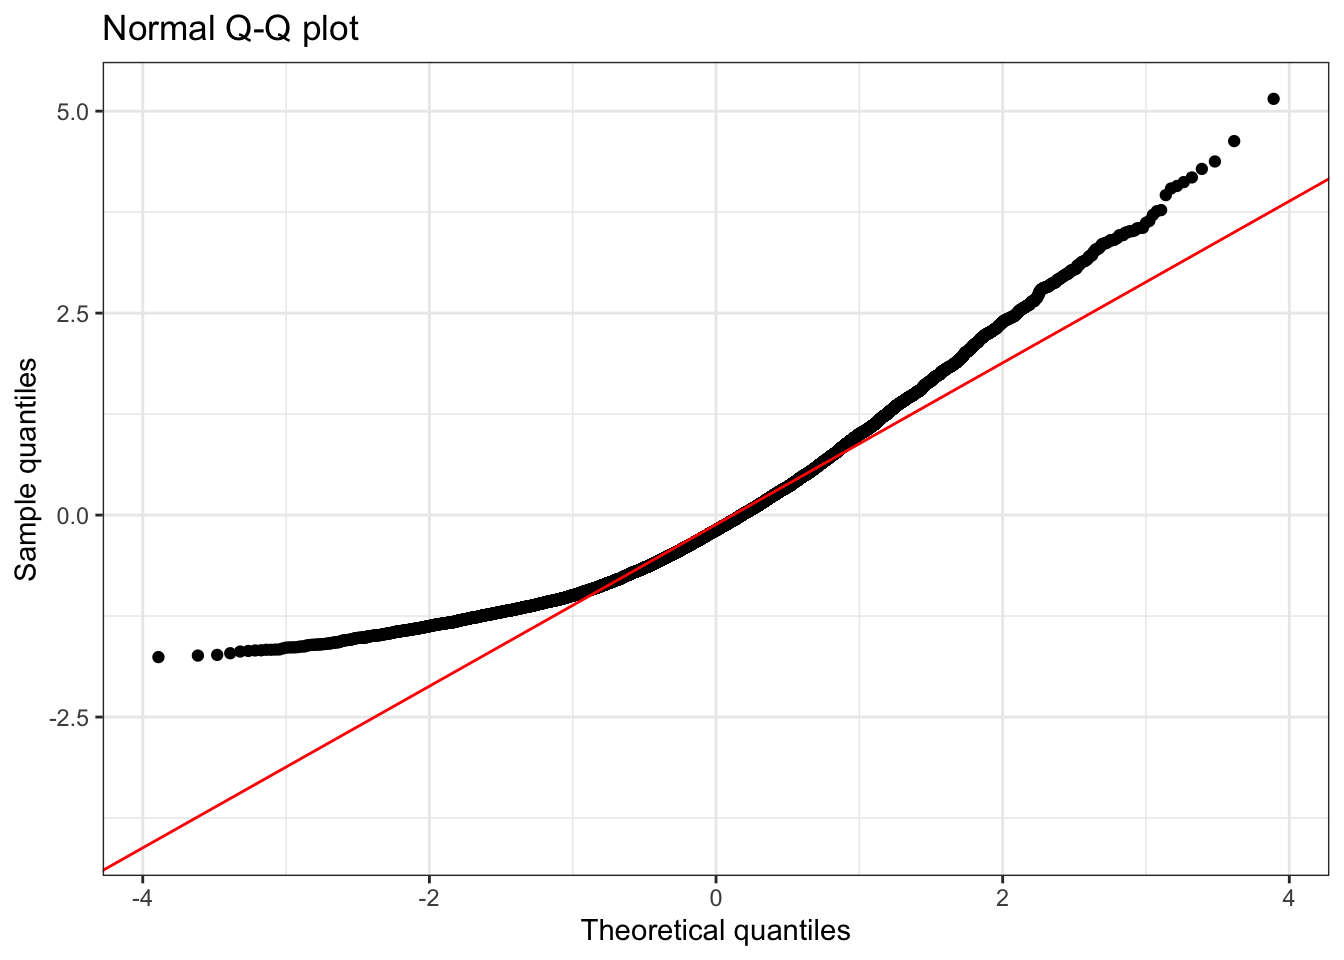
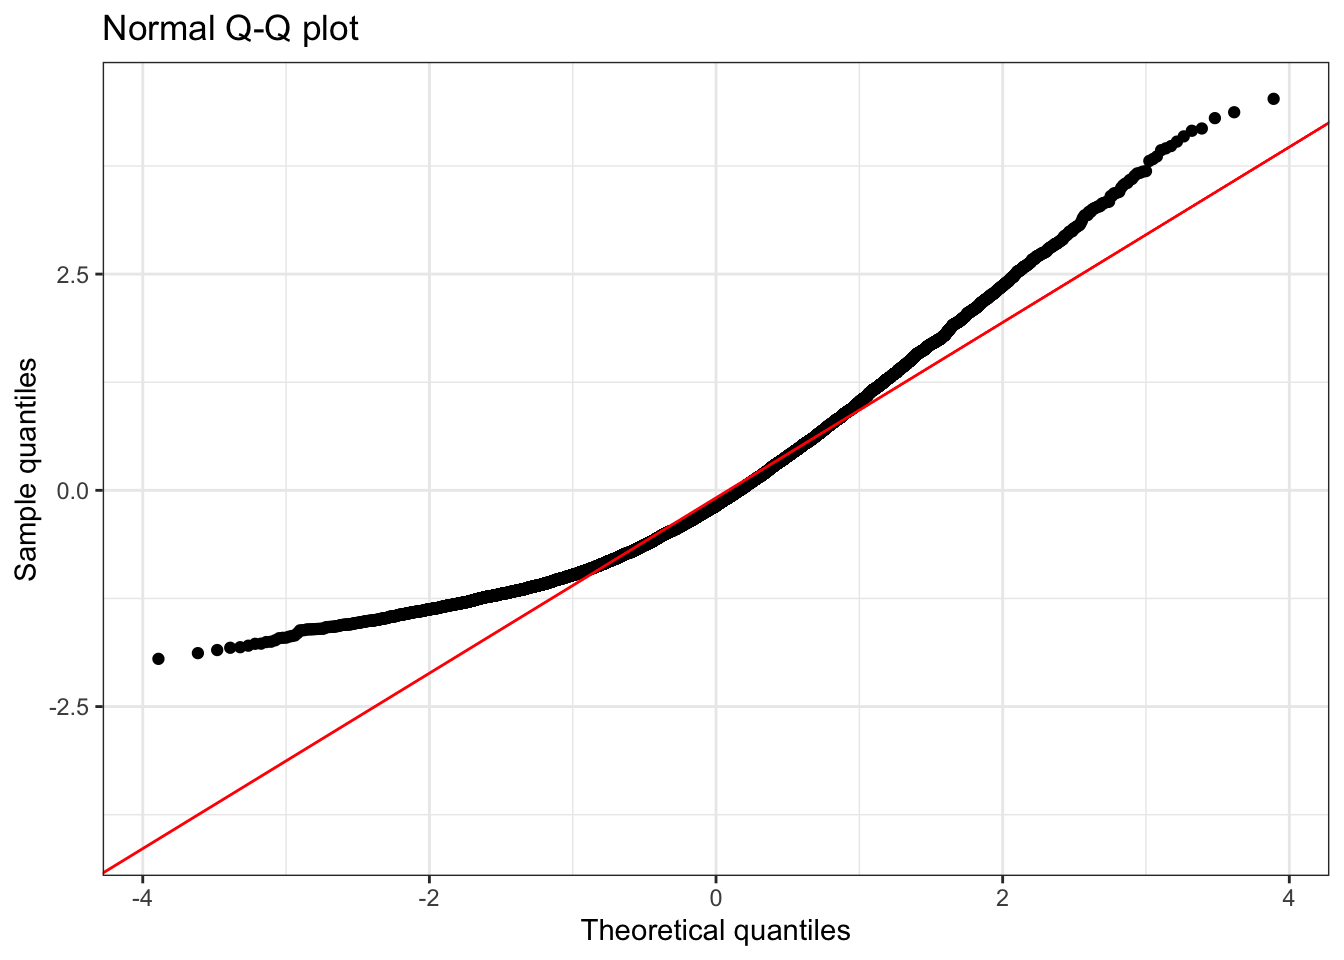
post update

diff --git a/docs/07_Lab-2_dummy-variable.html b/docs/07_Lab-2_dummy-variable.html
@@ -693,13 +693,13 @@ window.Quarto = {
 <section id="instructions" class="level2" data-number="1">
 <h2 data-number="1" class="anchored" data-anchor-id="instructions"><span class="header-section-number">1</span> Instructions</h2>
 <p>Copy and paste <strong>ALL code</strong> in this page into a new R script file in RStudio. Save the file as <code>lab2_binary_variables.R</code> (we call it a script). Then, run the code step by step, answering the questions.</p>
+<p>Alternatively, use <a href="https://colab.research.google.com/drive/1EcWkJfhHJOhDEHXaZgu3_f66pnlEum5R?usp=share_link">Google Colab</a>.</p>
 <div id="8cf1cd7a" class="cell" data-quarto-private-1="{&quot;key&quot;:&quot;vscode&quot;,&quot;value&quot;:{&quot;languageId&quot;:&quot;r&quot;}}">
 <div class="sourceCode cell-code" id="cb1"><pre class="sourceCode r code-with-copy"><code class="sourceCode r"><span id="cb1-1"><a href="#cb1-1" aria-hidden="true" tabindex="-1"></a><span class="co"># load packages and dataset</span></span>
 <span id="cb1-2"><a href="#cb1-2" aria-hidden="true" tabindex="-1"></a>pkgs <span class="ot">&lt;-</span> <span class="fu">c</span>(<span class="st">"tidyverse"</span>, <span class="st">"moments"</span>, <span class="st">"data.table"</span>, <span class="st">"ggsci"</span>, <span class="st">"stargazer"</span>)</span>
 <span id="cb1-3"><a href="#cb1-3" aria-hidden="true" tabindex="-1"></a>missing <span class="ot">&lt;-</span> <span class="fu">setdiff</span>(pkgs, <span class="fu">rownames</span>(<span class="fu">installed.packages</span>()))</span>
 <span id="cb1-4"><a href="#cb1-4" aria-hidden="true" tabindex="-1"></a><span class="cf">if</span> (<span class="fu">length</span>(missing) <span class="sc">&gt;</span> <span class="dv">0</span>) <span class="fu">install.packages</span>(missing)</span>
-<span id="cb1-5"><a href="#cb1-5" aria-hidden="true" tabindex="-1"></a><span class="fu">invisible</span>(<span class="fu">lapply</span>(pkgs, <span class="cf">function</span>(pkg) <span class="fu">suppressPackageStartupMessages</span>(<span class="fu">library</span>(pkg, <span class="at">character.only =</span> <span class="cn">TRUE</span>))))</span>
-<span id="cb1-6"><a href="#cb1-6" aria-hidden="true" tabindex="-1"></a><span class="fu">options</span>(<span class="at">knitr.kable.NA =</span> <span class="st">""</span>) <span class="co"># to avoid printing NA in kable</span></span></code><button title="Copy to Clipboard" class="code-copy-button"><i class="bi"></i></button></pre></div>
+<span id="cb1-5"><a href="#cb1-5" aria-hidden="true" tabindex="-1"></a><span class="fu">invisible</span>(<span class="fu">lapply</span>(pkgs, <span class="cf">function</span>(pkg) <span class="fu">suppressPackageStartupMessages</span>(<span class="fu">library</span>(pkg, <span class="at">character.only =</span> <span class="cn">TRUE</span>))))</span></code><button title="Copy to Clipboard" class="code-copy-button"><i class="bi"></i></button></pre></div>
 </div>
 </section>
 <section id="load-data-into-working-directory" class="level2" data-number="2">
@@ -854,7 +854,7 @@ TestScore_i = \beta_0 + \beta_1 D_i + u_i.
 <li><span class="math inline">\(E(Y_i | D_i = 1) = \beta_0 + \beta_1\)</span>, or <span class="math inline">\(\beta_1 = E(Y_i | D_i = 1) - E(Y_i | D_i = 0).\)</span> Thus, <span class="math inline">\(\beta_1\)</span> is the difference in group-specific expectations, i.e., the difference in expected test score between districts with <span class="math inline">\(STR&lt;20\)</span> and those with <span class="math inline">\(STR \geq 20.\)</span></li>
 </ul>
 <p>We now estimate the dummary regression model as defined by Equations (<a href="#eq-binary-regression" class="quarto-xref">1</a>) and (<a href="#eq-dummy-variable" class="quarto-xref">2</a>).</p>
-<div id="d4b324d5" class="cell" data-quarto-private-1="{&quot;key&quot;:&quot;vscode&quot;,&quot;value&quot;:{&quot;languageId&quot;:&quot;r&quot;}}" data-results="hide" data-execution_count="24">
+<div id="d4b324d5" class="cell" data-quarto-private-1="{&quot;key&quot;:&quot;vscode&quot;,&quot;value&quot;:{&quot;languageId&quot;:&quot;r&quot;}}" data-results="hide">
 <div class="sourceCode cell-code" id="cb8"><pre class="sourceCode r code-with-copy"><code class="sourceCode r"><span id="cb8-1"><a href="#cb8-1" aria-hidden="true" tabindex="-1"></a>dummy_model_slr <span class="ot">&lt;-</span> <span class="fu">lm</span>(TestScore <span class="sc">~</span> D, <span class="at">data =</span> cas)</span>
 <span id="cb8-2"><a href="#cb8-2" aria-hidden="true" tabindex="-1"></a><span class="fu">stargazer</span>(dummy_model_slr, <span class="at">type =</span> <span class="st">"text"</span>, <span class="at">title =</span> <span class="st">"Dummy Variable Regression Results"</span>, <span class="at">digits =</span> <span class="dv">3</span>)</span></code><button title="Copy to Clipboard" class="code-copy-button"><i class="bi"></i></button></pre></div>
 <div class="cell-output cell-output-stdout">

diff --git a/docs/02_Data_Visualization.html b/docs/02_Data_Visualization.html
@@ -1263,8 +1263,8 @@ sample estimates:
 <p>Summary statistics:</p>
 <div class="cell">
 <div class="cell-output cell-output-stdout">
-<pre><code>      n   min  mean median  max   sd skewness kurtosis
-1 10000 -1.76 -0.01  -0.19 5.15 0.99     0.88     3.59</code></pre>
+<pre><code>      n   min mean median  max   sd skewness kurtosis
+1 10000 -1.95 0.01  -0.18 4.53 0.99     0.84     3.46</code></pre>
 </div>
 </div>
 <p>💡 Note that for a positive skewed distribution, <strong>the mean is larger than the median</strong> because the long right tail pulls the mean above the median.</p>
@@ -1302,7 +1302,7 @@ sample estimates:
 <div class="cell">
 <div class="cell-output cell-output-stdout">
 <pre><code>      n   min mean median  max   sd skewness kurtosis
-1 10000 -4.78 0.01   0.19 1.96 0.99    -0.89     3.67</code></pre>
+1 10000 -5.04 0.01   0.19 1.91 0.98    -0.83     3.47</code></pre>
 </div>
 </div>
 <p>💡 Note that for a negatively skewed distribution, <strong>the mean is smaller than the median</strong> because the long left tail pulls the mean above the median.</p>
@@ -1348,7 +1348,7 @@ sample estimates:
 <div class="cell">
 <div class="cell-output cell-output-stdout">
 <pre><code>     n    min  mean median   max   sd skewness kurtosis
-1 1000 -22.58 -0.04      0 21.63 1.98     -0.2    40.02</code></pre>
+1 1000 -10.87 -0.03  -0.04 13.79 1.72     0.91    14.19</code></pre>
 </div>
 </div>
 <p><strong>Understanding Fat Tails (High Kurtosis):</strong></p>
@@ -1389,8 +1389,8 @@ sample estimates:
 <p>Summary statistics:</p>
 <div class="cell">
 <div class="cell-output cell-output-stdout">
-<pre><code>     n  min mean median  max   sd skewness kurtosis
-1 1000 -1.1    0   0.04 1.13 0.58    -0.03     1.84</code></pre>
+<pre><code>     n   min mean median  max   sd skewness kurtosis
+1 1000 -1.15 0.02   0.01 1.19 0.59    -0.09     1.84</code></pre>
 </div>
 </div>
 <p><strong>Understanding Thin Tails (Low Kurtosis):</strong></p>

diff --git a/docs/04_Theoretical_Framework_LR.html b/docs/04_Theoretical_Framework_LR.html
@@ -988,7 +988,7 @@ Solution
 </div>
 <div class="cell" data-layout-align="center">
 <div class="cell-output-display">
-<div id="fig-clt" class="quarto-float quarto-figure quarto-figure-center anchored" data-fig-pos="H" data-fig-align="center" width="990">
+<div id="fig-clt" class="quarto-float quarto-figure quarto-figure-center anchored" data-fig-align="center" data-fig-pos="H" width="990">
 <figure class="quarto-float quarto-float-fig figure">
 <div aria-describedby="fig-clt-caption-0ceaefa1-69ba-4598-a22c-09a6ac19f8ca">
 <img src="images/CLT.png" id="fig-clt" class="img-fluid quarto-figure quarto-figure-center anchored figure-img" data-fig-pos="H" width="990">
